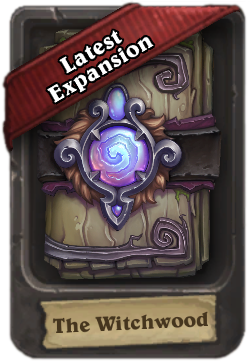
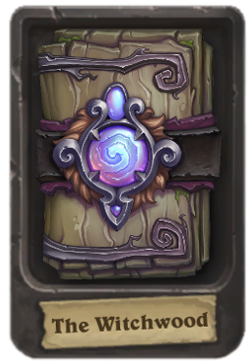
Add The Boomsday Project
- Add the Boomsday Project with the latest expansion banner
- The Witchwood is no longer the latest expansion so remove that banner

The banner right now is actually "Pre-purchase" but I re-used the banner art
from the old Witchwood image.

diff --git a/src/components/Pack/index.js b/src/components/Pack/index.js
@@ -6,6 +6,7 @@ import journeyToUngoro from './JourneyToUngoro.png'
 import knightsOfTheFrozenThrone from './KnightsOfTheFrozenThrone.png'
 import kobaldsAndCatacombs from './KobaldsAndCatacombs.png'
 import theWitchwood from './TheWitchwood.png'
+import theBoomsdayProject from './TheBoomsdayProject.png'
 
 const sets = {
   classic,
@@ -13,6 +14,7 @@ const sets = {
   knightsOfTheFrozenThrone,
   kobaldsAndCatacombs,
   theWitchwood,
+  theBoomsdayProject,
 }
 
 // Based on the pack image dimensions

diff --git a/src/components/App/index.js b/src/components/App/index.js
@@ -23,8 +23,9 @@ const Wrapper = styled.div`
 `
 
 const sets = [
-  'theWitchwood',
+  'theBoomsdayProject',
   'classic',
+  'theWitchwood',
   'kobaldsAndCatacombs',
   'knightsOfTheFrozenThrone',
   'journeyToUngoro',
